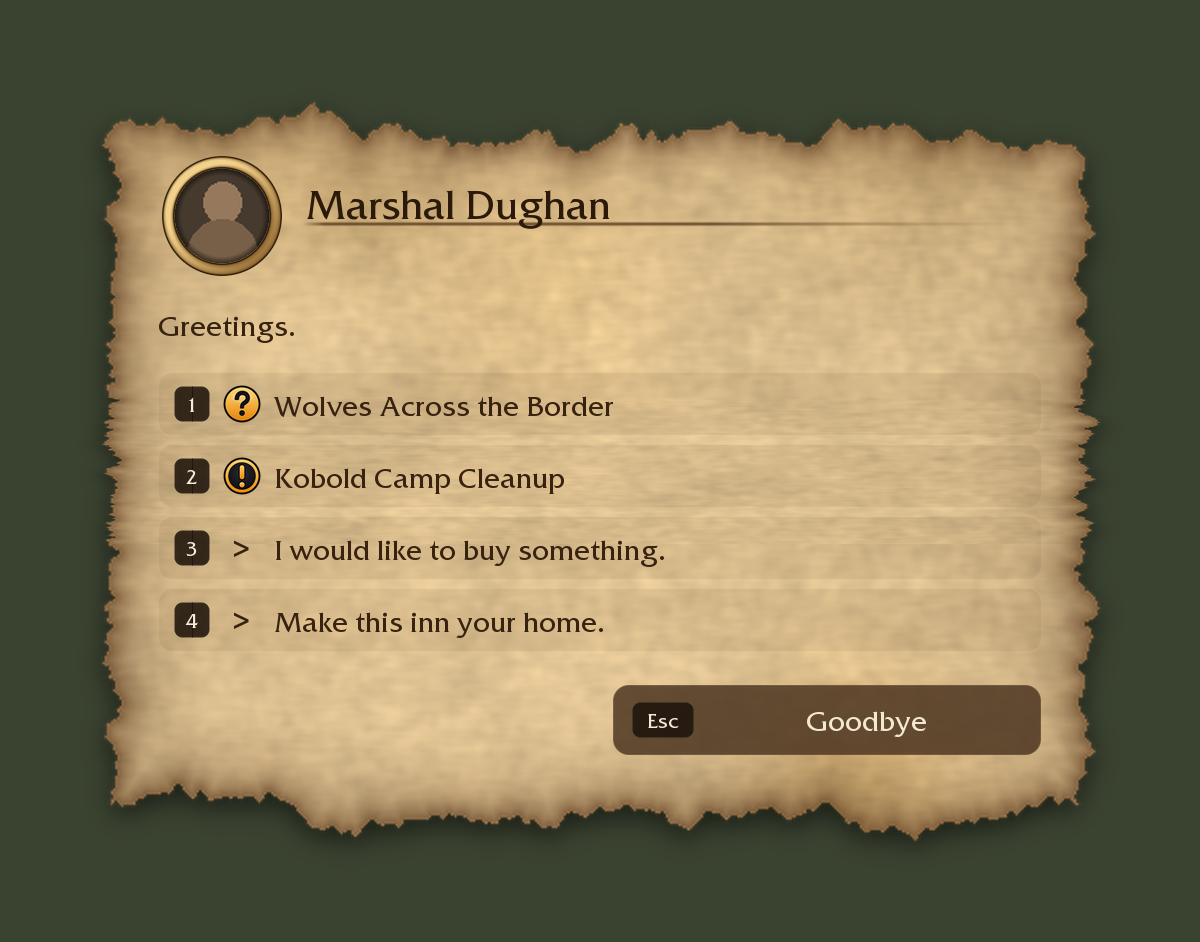
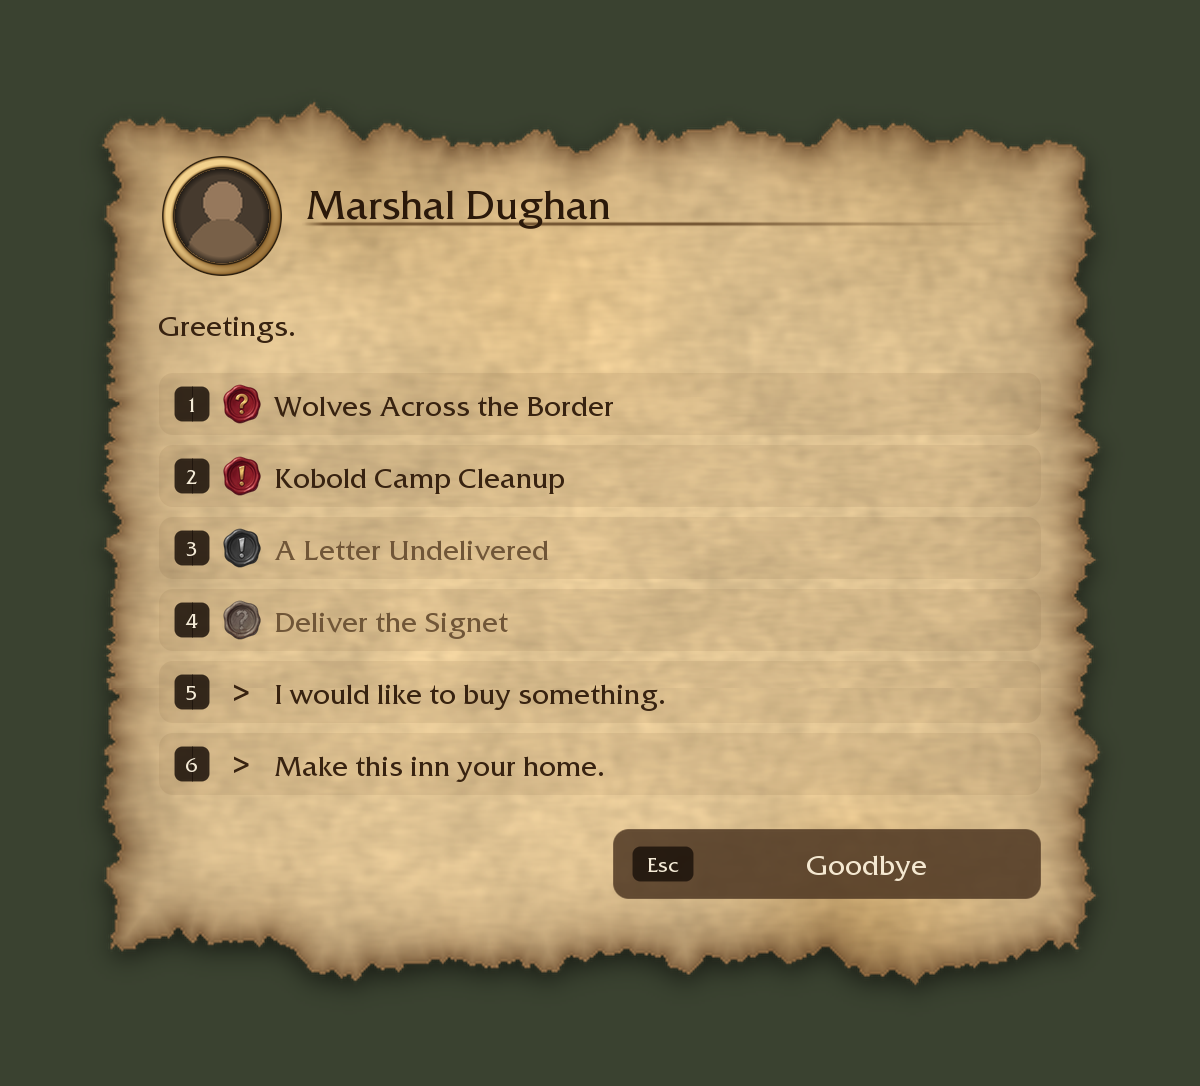
feat(quests): wax-seal quest marks on the dialog's parchment page
Sean 2026-10-18 on the quest dialog: "I also dont like this '!' and want one that fits more";
picked the crimson wax seals from an OpenArt sheet of nine ("I like these").

- offered quest: crimson seal, gold "!" (greyed for a low-level quest, like WoW's grey "!")
- ready to hand in: crimson seal, gold "?"
- still in progress: the faded grey seal (was a bare "?" glyph)
Nameplates and the minimap keep their marks. Cut by process_ui_art.py --only marks; the
mock gains Texture:SetDesaturated, the dialog renderer draws it.

diff --git a/tests/test_quest_dialog.py b/tests/test_quest_dialog.py
@@ -1,6 +1,7 @@
 # HogTron_Quests/Dialog.lua: the quest giver's pages in our window instead of Blizzard's (Sean 2026-10-14, from the
 # WoW Forever add-on clip #5 "Dialogue UI"). Blizzard's QuestFrame / GossipFrame here are real mock frames that log
 # every event they still receive, so "muted" is tested by what they hear, not by a flag we set ourselves.
+import pathlib
 import pytest
 
 from test_quests import MODERN
@@ -246,6 +247,38 @@ def test_gossip_lists_hand_ins_then_offers_then_open_quests_then_options(dlg):
     assert calls(dlg) == [["C_GossipInfo.SelectOption", 7], ["C_GossipInfo.SelectAvailableQuest", 101], ["C_GossipInfo.SelectActiveQuest", 55]]
     dlg.execute("CALLS = {}; HogTronUIDialogSecondary:Click()")
     assert calls(dlg) == [["C_GossipInfo.CloseGossip"]] and not shown(dlg)
+
+
+# Sean 2026-10-18 on the parchment page: "I also dont like this '!' and want one that fits more" -> the wax seals.
+def test_every_quest_line_wears_its_wax_seal(dlg):
+    dlg.execute('''
+      GAC = { { title = "Done Q", questID = 55, isComplete = true }, { title = "Open Q", questID = 56, isComplete = false } }
+      GAV = { { title = "New Q", questID = 101 }, { title = "Grey Q", questID = 102, isTrivial = true } }
+      GOPT = { { name = "Train me", gossipOptionID = 9, orderIndex = 1 } }
+      MockFire("GOSSIP_SHOW")''')
+
+    def row(i):
+        return f'_G["HogTronUIDialogRow" .. {D}.SlotOfPick({i})].icon'
+    want = [("Done Q", "dialog_quest_done", False), ("New Q", "dialog_quest_open", False), ("Grey Q", "dialog_quest_open", True),
+            ("Open Q", "dialog_quest_wait", False)]
+    for i, (title, art, grey) in enumerate(want, 1):
+        assert dlg.eval(f"{D}.model.picks[{i}].text") == title
+        tex = dlg.eval(f"{row(i)}:GetTexture()")
+        assert "HogTronUI" in tex and tex.endswith(art), title
+        assert dlg.eval(f"{row(i)}:IsShown()") is True and dlg.eval(f"{row(i)}:IsDesaturated()") is grey, title
+    assert dlg.eval(f"{row(5)}:IsShown()") is False                       # a gossip line keeps its ">" (no client icon)
+    for art in ("dialog_quest_open", "dialog_quest_done", "dialog_quest_wait"):
+        assert (pathlib.Path(__file__).resolve().parents[1] / "HogTronUI" / "Media" / f"{art}.tga").is_file(), art
+    # the same row later shows something plain: never left grey
+    dlg.execute('GAC = {}; GAV = { { title = "Fresh Q", questID = 103 } }; GOPT = {}; MockFire("GOSSIP_SHOW")')
+    assert dlg.eval(f"{row(1)}:IsDesaturated()") is False
+    # ... or a reward item: a page of rewards after a grey seal shows them in full colour
+    dlg.execute('GAC = {}; GAV = { { title = "Grey Q", questID = 102, isTrivial = true } }; GOPT = {}; MockFire("GOSSIP_SHOW")')
+    assert dlg.eval(f"{row(1)}:IsDesaturated()") is True
+    dlg.execute('CHOICES = { { "Sample Gloves", 1, 1, 2 }, { "Sample Tunic", 2, 1, 2 } }; MockFire("QUEST_DETAIL")')
+    greyed = dlg.eval("(function() local n = 0 for i = 1, 12 do local r = _G['HogTronUIDialogRow' .. i] "
+                      "if r and r:IsShown() and r.icon:IsShown() and r.icon:IsDesaturated() then n = n + 1 end end return n end)()")
+    assert greyed == 0
 
 
 def test_one_gossip_line_takes_space(dlg):

diff --git a/dev/render_dialog.py b/dev/render_dialog.py
@@ -130,6 +130,9 @@ class Painter:
             col = [1, 1, 1, 1]
         if src is None:
             return
+        if r["_desat"]:   # SetDesaturated(true): grey, alpha kept (a low-level quest's seal)
+            a = src.getchannel("A")
+            src = Image.merge("RGBA", (*src.convert("L").convert("RGB").split(), a))
         tc = vals(r["_texCoord"])
         if len(tc) == 4:
             W, H = src.size
@@ -246,7 +249,8 @@ def main():
         ("detail-light", 'HogHeals.db.profile.quests.dialog.theme = "light"; CHOICES = { { "Sample Brawler Gloves", 1, 1, 2 }, { "Sample Woodland Tunic", 2, 1, 2 }, { "Sample Light Pants", 3, 1, 1 } }; REWARDS = { { "Sample Wolfhide Cloak", 4, 1, 3 } }; MockFire("QUEST_DETAIL")', None),
         ("complete-choice-light", 'MockFire("QUEST_COMPLETE")', 2),
         ("progress-light", 'COMPLETABLE = false; REQUIRED = { { "Tough Wolf Meat", 5, 3 } }; MockFire("QUEST_PROGRESS")', None),
-        ("gossip-light", 'GAC = { { title = "Wolves Across the Border", questID = 55, isComplete = true } }; GAV = { { title = "Kobold Camp Cleanup", questID = 101 } }; GOPT = { { name = "I would like to buy something.", gossipOptionID = 3, orderIndex = 0 }, { name = "Make this inn your home.", gossipOptionID = 4, orderIndex = 1 } }; MockFire("GOSSIP_SHOW")', None),
+        # every quest mark (2026-10-18 wax seals): ready to hand in, offered, offered but low level, still in progress
+        ("gossip-light", 'GAC = { { title = "Wolves Across the Border", questID = 55, isComplete = true }, { title = "Deliver the Signet", questID = 57, isComplete = false } }; GAV = { { title = "Kobold Camp Cleanup", questID = 101 }, { title = "A Letter Undelivered", questID = 102, isTrivial = true } }; GOPT = { { name = "I would like to buy something.", gossipOptionID = 3, orderIndex = 0 }, { name = "Make this inn your home.", gossipOptionID = 4, orderIndex = 1 } }; MockFire("GOSSIP_SHOW")', None),
         ("detail-dark", 'HogHeals.db.profile.quests.dialog.theme = "dark"; MockFire("QUEST_DETAIL")', None),
         # Sean 2026-10-17's turn-in page: two long names next to their number chips, XP + coins as icons
         ("complete-rewards-light", '''HogHeals.db.profile.quests.dialog.theme = "light"; COMPLETABLE = true; REQUIRED = {}; REWARDS = {}; CHOICES = { { "Hunter's Simple Cloak", 1, 1, 2 }, { "Highlands Defender's Shield", 2, 1, 2 } }; XP = 775; MONEY = 600; MockFire("QUEST_COMPLETE")''', None),

diff --git a/dev/icons/process_ui_art.py b/dev/icons/process_ui_art.py
@@ -8,7 +8,7 @@ across the icons, the menus, the info bar and the XP bar. Generated by openart_u
   clean), resized: tiles -> 64x64 <name>_art.tga, emblems -> 32x32 <name>.tga.
   menu / bar art: see the per-asset functions below.
 
-Usage: python -P dev/icons/process_ui_art.py [--only icons|info|menu|bars] [--dry-run]
+Usage: python -P dev/icons/process_ui_art.py [--only icons|info|menu|bars|marks] [--dry-run]
 """
 from __future__ import annotations
 
@@ -40,6 +40,13 @@ EMBLEMS = {
                "info_friends", "info_guild"],
     "info_b": ["info_xp", "info_session", "info_tolevel", "info_goldph", "info_train", "info_mail", "info_pin",
                "info_combat", "info_health"],
+}
+
+# 2026-10-18 quest dialog marks (Sean, on the parchment page: "I also dont like this '!' and want one that fits more";
+# picked the wax seals: "I like these"). Row 1 = crimson wax seals (!, ?, faded grey ?); rows 2-3 (gilded-ink roundels,
+# stamped brass) stay in raw/ only. 64x64: the dialog draws them at 20 px, crisp at UI scale 1.4+.
+MARKS = {
+    "dialog_marks": ["dialog_quest_open", "dialog_quest_done", "dialog_quest_wait", None, None, None, None, None, None],
 }
 
 
@@ -201,7 +208,7 @@ def do_bars(dry):
 
 def main():
     ap = argparse.ArgumentParser()
-    ap.add_argument("--only", choices=["icons", "info", "menu", "bars"])
+    ap.add_argument("--only", choices=["icons", "info", "menu", "bars", "marks"])
     ap.add_argument("--dry-run", action="store_true")
     a = ap.parse_args()
     if a.only in (None, "icons"):
@@ -212,6 +219,8 @@ def main():
         do_menu(a.dry_run)
     if a.only in (None, "bars"):
         do_bars(a.dry_run)
+    if a.only in (None, "marks"):
+        do_sheets(MARKS, 64, 0.04, "", a.dry_run)
 
 
 if __name__ == "__main__":
